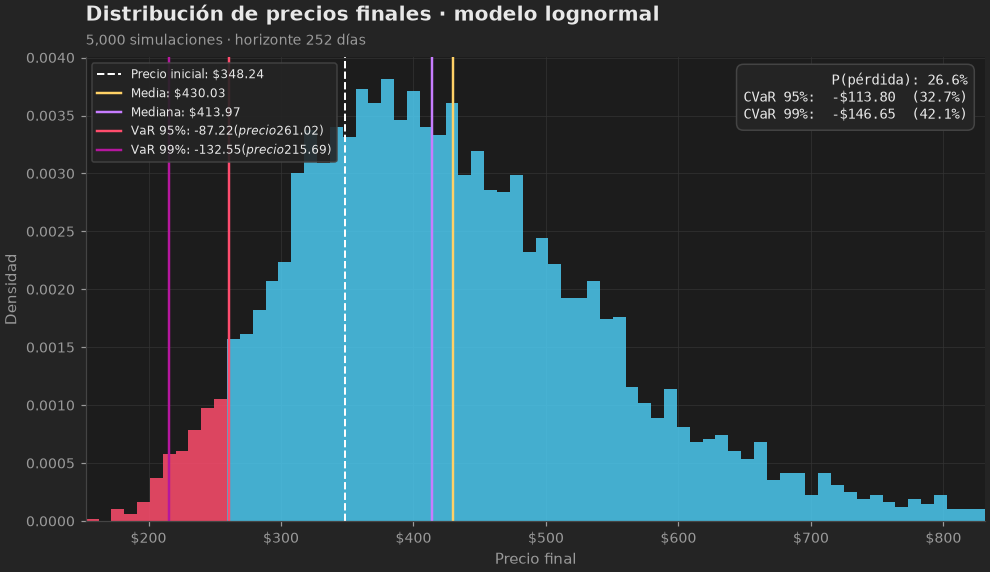
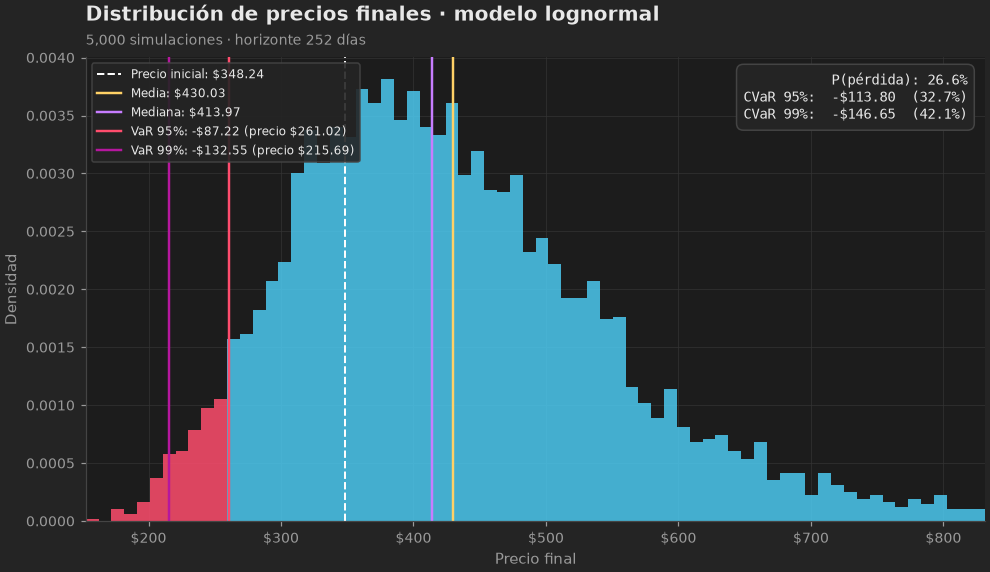
feat: modulo de graficos actualizado

Changed region(s): [[0.1212, 0.1486, 0.3636, 0.2972], [0.3333, 0.0892, 0.3636, 0.1189]]

diff --git a/graficos.py b/graficos.py
@@ -17,6 +17,8 @@ from typing import TYPE_CHECKING, Mapping
 
 import numpy as np
 import pandas as pd
+import matplotlib
+matplotlib.rcParams["text.parse_math"] = False
 from matplotlib.collections import LineCollection
 from matplotlib.figure import Figure
 from matplotlib.lines import Line2D
